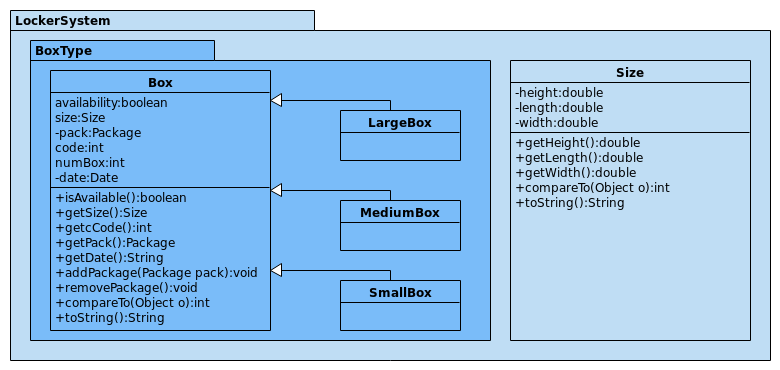
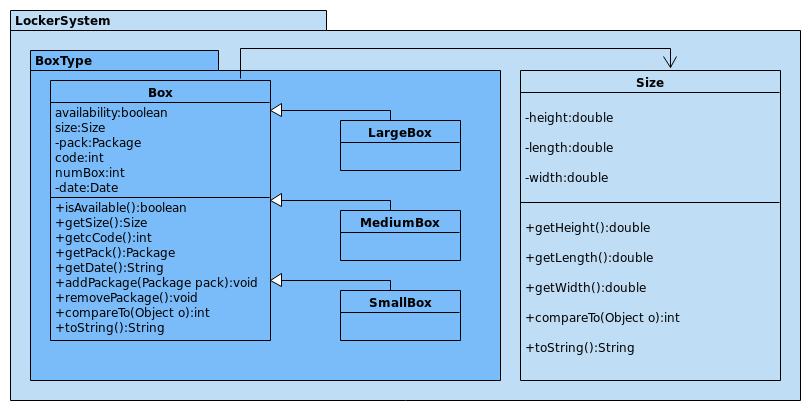
Aggiunti commenti JavaDoc e finalizzati alcuni UML.

Changed region(s): [[0.0, 0.0, 1.0, 0.9811], [0.3077, 0.2378, 0.5846, 0.4459], [0.5538, 0.3568, 0.5846, 0.3865]]

diff --git a/src/PickupPointSystem/Server/ManageConnectionsDeliveryMan.java b/src/PickupPointSystem/Server/ManageConnectionsDeliveryMan.java
@@ -1,25 +1,36 @@
 package PickupPointSystem.Server;
 
 import PickupPointSystem.CredentialsReceiver;
-import PickupPointSystem.PickupPoint;
 
 import java.io.BufferedReader;
 import java.io.IOException;
 import java.io.PrintStream;
-import java.net.ServerSocket;
 import java.net.Socket;
 import java.util.StringTokenizer;
 
+/**
+ * @author Gruppo D19
+ * @version 1.0.0
+ */
+
 public class ManageConnectionsDeliveryMan implements ManageConnections {
 
-    private ServerSocket server;
+
     private Socket client;
     private BufferedReader in;
     private PrintStream out;
 
+    /**
+     * This method reads the String sent by the client.
+     *
+     * @param client This is the client who is connected.
+     * @param in Input Operation.
+     * @param out Output Operation.
+     * @throws IOException Exception caused by I/O operations.
+     */
+
     @Override
-    public void goConnect(ServerSocket server, Socket client, BufferedReader in, PrintStream out) throws IOException {
-        this.server = server;
+    public void goConnect(Socket client, BufferedReader in, PrintStream out) throws IOException {
         this.client = client;
         this.in = in;
         this.out = out;
@@ -29,6 +40,12 @@ public class ManageConnectionsDeliveryMan implements ManageConnections {
             manageConnection();
         }
     }
+
+    /**
+     * This method manages the connection based on the string.
+     *
+     * @throws IOException Exception caused by I/O operations.
+     */
 
     private void manageConnection() throws IOException {
         String line = in.readLine();

diff --git a/src/PickupPointSystem/Server/NotificationSystem/DeliveryMail.java b/src/PickupPointSystem/Server/NotificationSystem/DeliveryMail.java
@@ -3,6 +3,11 @@ package PickupPointSystem.Server.NotificationSystem;
 import java.text.SimpleDateFormat;
 import java.util.Date;
 
+/**
+ * @author Gruppo D19
+ * @version 1.0.0
+ */
+
 public class DeliveryMail extends EMailSender {
 
     private String email;
@@ -12,6 +17,18 @@ public class DeliveryMail extends EMailSender {
     private Date pickupDate;
     private String location;
     private String address;
+
+    /**
+     * This is the constructor
+     *
+     * @param email Customer's email
+     * @param piPoID PickUpPoint's ID
+     * @param packID Pack's ID
+     * @param password Customer's Password
+     * @param pickupDate Date of delivery
+     * @param location PickUpPoint location
+     * @param address PickUpPoint address
+     */
 
     public DeliveryMail(String email, String piPoID, String packID, String password, Date pickupDate, String location, String address) {
         super();
@@ -25,6 +42,10 @@ public class DeliveryMail extends EMailSender {
         this.address = address;
     }
 
+
+    /**
+     * This method sends the emails
+     */
     @Override
     public void run() {
         SimpleDateFormat sdf = new SimpleDateFormat("dd-MM-yy");

diff --git a/src/PickupPointSystem/Server/PickupPointServer.java b/src/PickupPointSystem/Server/PickupPointServer.java
@@ -9,12 +9,21 @@ import java.io.PrintStream;
 import java.net.ServerSocket;
 import java.net.Socket;
 
+/**
+ * @author Gruppo D19
+ * @version 1.0.0
+ */
+
 public class PickupPointServer extends Thread {
 
     private ServerSocket server;
     private Socket client;
     private BufferedReader in;
     private PrintStream out;
+
+    /**
+     * Constructor.
+     */
 
     public PickupPointServer(){
 
@@ -31,6 +40,11 @@ public class PickupPointServer extends Thread {
         }
     }
 
+    /**
+     * This method initializes the server, which awaits a connection and manages it.
+     * @throws IOException Exception caused by I/O operations.
+     */
+
     private void startServer() throws IOException {
         while (true) {
             System.out.println("[1] Waiting for connection...");
@@ -46,7 +60,7 @@ public class PickupPointServer extends Thread {
             String line = in.readLine();
             ManageConnections connection = new ManageConnectionsFactory().getConnection(line);
 
-            connection.goConnect(server, client, in, out);
+            connection.goConnect(client, in, out);
         }
     }
 }

diff --git a/src/PickupPointSystem/CredentialsReceiver.java b/src/PickupPointSystem/CredentialsReceiver.java
@@ -8,8 +8,8 @@ import java.util.ArrayList;
 
 /**
  * This Singleton class is used to forward credentials
- * @author Andrea Stella
- * @version 1.0
+ * @author Gruppo D19
+ * @version 1.0.0
  */
 
 public class CredentialsReceiver {
@@ -32,8 +32,8 @@ public class CredentialsReceiver {
     /**
      * This method receives the credentials passed as an argument and forwards
      * them to the observers who need it
-     * @param id the id
-     * @param password the password
+     * @param id Deliveryman's ID
+     * @param password DeliveryMan's password
      */
 
     public void receiveCredentials(String id, String password){
@@ -52,8 +52,8 @@ public class CredentialsReceiver {
     /**
      * This method notifies the observers by passing the id and password
      * passed as an argument
-     * @param id the id
-     * @param password the password
+     * @param id Deliveryman's ID
+     * @param password DeliveryMan's password
      */
 
     private void notifyObservers(String id, String password){

diff --git a/src/PickupPointSystem/Server/NotificationSystem/EMailSender.java b/src/PickupPointSystem/Server/NotificationSystem/EMailSender.java
@@ -5,11 +5,20 @@ import javax.mail.internet.InternetAddress;
 import javax.mail.internet.MimeMessage;
 import java.util.*;
 
+/**
+ * @author Gruppo D19
+ * @version 1.0.0
+ */
+
 public abstract class EMailSender extends Thread {
 
     private final String username = "smartlocker.d19@gmail.com";
     private final String password = "ProgettoD19";
     private Session session;
+
+    /**
+     * This is the constructor that logs into its mail
+     */
 
     public EMailSender(){
         Properties prop = new Properties();
@@ -26,6 +35,11 @@ public abstract class EMailSender extends Thread {
                 });
     }
 
+    /**
+     * This methods sends the actual email
+     * @param email Customer's email address
+     * @param text this is the body of the mail
+     */
     protected void sendEmail(String email, String text){
 
         try {

diff --git a/src/PickupPointSystem/Server/ManageConnections.java b/src/PickupPointSystem/Server/ManageConnections.java
@@ -1,13 +1,26 @@
 package PickupPointSystem.Server;
 
-import PickupPointSystem.PickupPoint;
-
 import java.io.BufferedReader;
 import java.io.IOException;
 import java.io.PrintStream;
-import java.net.ServerSocket;
 import java.net.Socket;
 
+/**
+ * @author Gruppo D19
+ * @version 1.0.0
+ */
+
+
 public interface ManageConnections {
-    public void goConnect(ServerSocket server, Socket client, BufferedReader in, PrintStream out) throws IOException;
+
+    /**
+     * This method reads the String sent by the client.
+     *
+     * @param client This is the client who is connected.
+     * @param in Input Operation.
+     * @param out Output Operation.
+     * @throws IOException Exception caused by I/O operations.
+     */
+
+     void goConnect(Socket client, BufferedReader in, PrintStream out) throws IOException;
 }

diff --git a/src/PickupPointSystem/Server/NotificationSystem/PickupMail.java b/src/PickupPointSystem/Server/NotificationSystem/PickupMail.java
@@ -1,8 +1,20 @@
 package PickupPointSystem.Server.NotificationSystem;
 
+/**
+ * @author Gruppo D19
+ * @version 1.0.0
+ */
+
 public class PickupMail extends EMailSender {
     private String email;
     private String packID;
+
+    /**
+     * This is the constructor
+     *
+     * @param email Customer's email
+     * @param packID Pack's ID
+     */
 
     public PickupMail(String email, String packID) {
         super();
@@ -10,6 +22,10 @@ public class PickupMail extends EMailSender {
         this.email = email;
         this.packID = packID;
     }
+
+    /**
+     * This method sends the emails
+     */
 
     @Override
     public void run() {

diff --git a/src/PickupPointSystem/GraphicalInterface/InsertCodePanel.java b/src/PickupPointSystem/GraphicalInterface/InsertCodePanel.java
@@ -1,20 +1,13 @@
 package PickupPointSystem.GraphicalInterface;
 
 import PickupPointSystem.GraphicalInterface.ErrorGUI.ErrorGUIMain;
-import PickupPointSystem.GraphicalInterface.LoadingGUI.LoadingGUIMain;
-import PickupPointSystem.ObserverPattern.Observer;
 import PickupPointSystem.PickupPoint;
 
 import javax.swing.*;
 import java.awt.*;
 import java.awt.event.ActionEvent;
 import java.awt.event.ActionListener;
-import java.awt.event.KeyEvent;
-import java.awt.event.KeyListener;
 import java.io.IOException;
-import java.util.ArrayList;
-import java.util.HashSet;
-import java.util.Set;
 
 import static java.awt.Toolkit.getDefaultToolkit;
 

diff --git a/src/PickupPointSystem/PickupPoint.java b/src/PickupPointSystem/PickupPoint.java
@@ -5,10 +5,8 @@ import PickupPointSystem.DatabaseSystem.Tables.DeliveryTable;
 import PickupPointSystem.DatabaseSystem.Tables.PackageTable;
 import PickupPointSystem.DatabaseSystem.Tables.PickupPointTable;
 import PickupPointSystem.Exceptions.IncorrectIDException;
-import PickupPointSystem.GraphicalInterface.GraIntMain;
 import PickupPointSystem.LockerSystem.BoxType.*;
 
-import PickupPointSystem.ObserverPattern.Observer;
 import PickupPointSystem.Server.NotificationSystem.DeliveryMail;
 import PickupPointSystem.Server.PickupPointServer;
 

diff --git a/src/PickupPointSystem/Server/ManageConnectionsFactory.java b/src/PickupPointSystem/Server/ManageConnectionsFactory.java
@@ -1,6 +1,21 @@
 package PickupPointSystem.Server;
 
+
+/**
+ * @author Gruppo D19
+ * @version 1.0.0
+ */
+
+
 public class ManageConnectionsFactory {
+
+    /**
+     * This method returns a connection
+     * type based on a string.
+     *
+     * @param type This is the type of connection.
+     * @return The connection.
+     */
 
     public ManageConnections getConnection(String type) {
         if (type.equals("deliveryman")) return new ManageConnectionsDeliveryMan();

diff --git a/src/PickupPointSystem/GraphicalInterface/GraIntMain.java b/src/PickupPointSystem/GraphicalInterface/GraIntMain.java
@@ -4,8 +4,6 @@ import PickupPointSystem.Exceptions.IncorrectIDException;
 import PickupPointSystem.GraphicalInterface.ErrorGUI.ErrorGUIMain;
 import PickupPointSystem.GraphicalInterface.LoadingGUI.LoadingGUIMain;
 import PickupPointSystem.PickupPoint;
-import PickupPointSystem.ObserverPattern.Observer;
-import PickupPointSystem.Server.PickupPointServer;
 
 import javax.swing.*;
 import java.awt.*;

diff --git a/src/PickupPointSystem/ObserverPattern/ObserverCredentials.java b/src/PickupPointSystem/ObserverPattern/ObserverCredentials.java
@@ -1,6 +1,17 @@
 package PickupPointSystem.ObserverPattern;
 
+/**
+ * @author Gruppo D19
+ * @version 1.0.0
+ */
+
 public interface ObserverCredentials {
+
+    /**
+     * This method receives the credentials and updates an object.
+     * @param id Deliveryman's ID
+     * @param password DeliveryMan's password
+     */
 
     void updateCredentials(String id, String password);
 }
